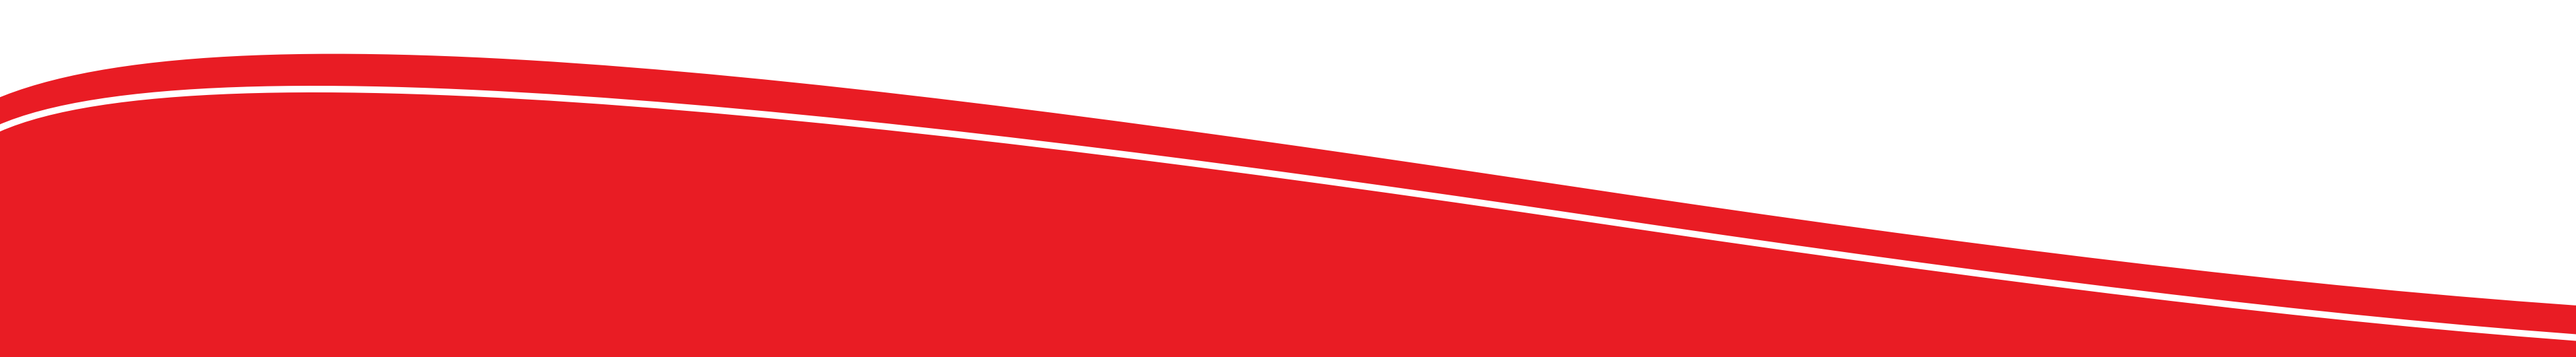
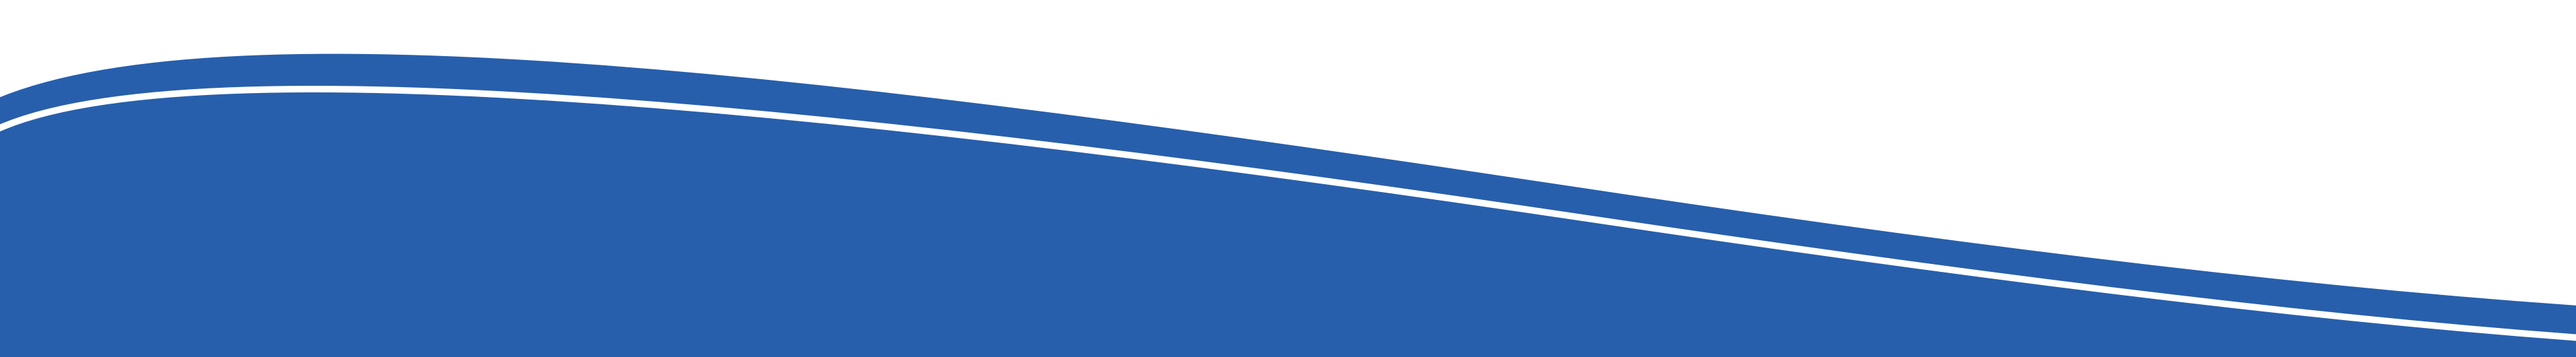
header styling

diff --git a/css/style.css b/css/style.css
@@ -3,7 +3,7 @@
   --color-primary: #ffc600;
   --color-green: #07793d;
   --color-yellow: #fdd01b;
-  --color-blue: #004490;
+  --color-blue: #275fac;
   --color-red: #e91c24;
   --fs-xl: clamp(3.5rem, 6vw + 1rem, 5rem);
   --fs-600: 3.25rem;
@@ -225,7 +225,7 @@ a {
 }
 .heading--3 {
   font-family: "Neuton", serif;
-  color: var(--color-red);
+  color: var(--color-blue);
   font-size: var(--fs-600);
   text-shadow: -1px 0 white, 0 1px white, 1px 0 white, 0 -1px white;
   font-weight: 700;
@@ -302,7 +302,7 @@ a {
   position: absolute;
   width: 100%;
   height: 0.3rem;
-  background-color: var(--color-red);
+  background-color: var(--color-blue);
   transition: 0.5s all;
 }
 .hamburger__line::before, .hamburger__line::after {
@@ -326,7 +326,7 @@ a {
   position: absolute;
   top: 8%;
   right: -5.5rem;
-  color: var(--color-red);
+  color: var(--color-blue);
   cursor: default;
 }
 
@@ -346,7 +346,7 @@ a {
 .toggleHam .hamburger__line::before, .toggleHam .hamburger__line::after {
   height: 0.15rem;
   width: 100%;
-  background-color: var(--color-red);
+  background-color: var(--color-blue);
   content: "";
   display: block;
   position: absolute;
@@ -559,7 +559,7 @@ a {
   background-image: url("../img/products-background-3.jpg");
 }
 .products__title {
-  background-color: var(--color-red);
+  background-color: var(--color-blue);
   padding: 2rem 0 5rem;
   text-align: center;
 }

diff --git a/sass/layout/_navigation.scss b/sass/layout/_navigation.scss
@@ -31,7 +31,7 @@
     position: absolute;
     width: 100%;
     height: 0.3rem;
-    background-color: var(--color-red);
+    background-color: var(--color-blue);
     transition: 0.5s all;
 
     &::before,
@@ -61,7 +61,7 @@
     position: absolute;
     top: 8%;
     right: -5.5rem;
-    color: var(--color-red);
+    color: var(--color-blue);
     cursor: default;
   }
 }
@@ -87,7 +87,7 @@
     &::after {
       height: 0.15rem;
       width: 100%;
-      background-color: var(--color-red);
+      background-color: var(--color-blue);
       content: "";
       display: block;
       position: absolute;

diff --git a/sass/base/_typography.scss b/sass/base/_typography.scss
@@ -22,7 +22,7 @@
 
   &--3 {
     font-family: $font-display;
-    color: var(--color-red);
+    color: var(--color-blue);
     font-size: var(--fs-600);
     text-shadow: -1px 0 white, 0 1px white, 1px 0 white, 0 -1px white;
     font-weight: 700;

diff --git a/sass/components/_products.scss b/sass/components/_products.scss
@@ -39,7 +39,7 @@
   }
 
   &__title {
-    background-color: var(--color-red);
+    background-color: var(--color-blue);
     padding: 2rem 0 5rem;
     text-align: center;
     // border-bottom: 0.5vh solid white;

diff --git a/sass/abstracts/_variables.scss b/sass/abstracts/_variables.scss
@@ -15,7 +15,7 @@ $bp-sm: 45em; // 600px;
 
   --color-green: #07793d;
   --color-yellow: #fdd01b;
-  --color-blue: #004490;
+  --color-blue: #275fac;
   --color-red: #e91c24;
 
   //font size
